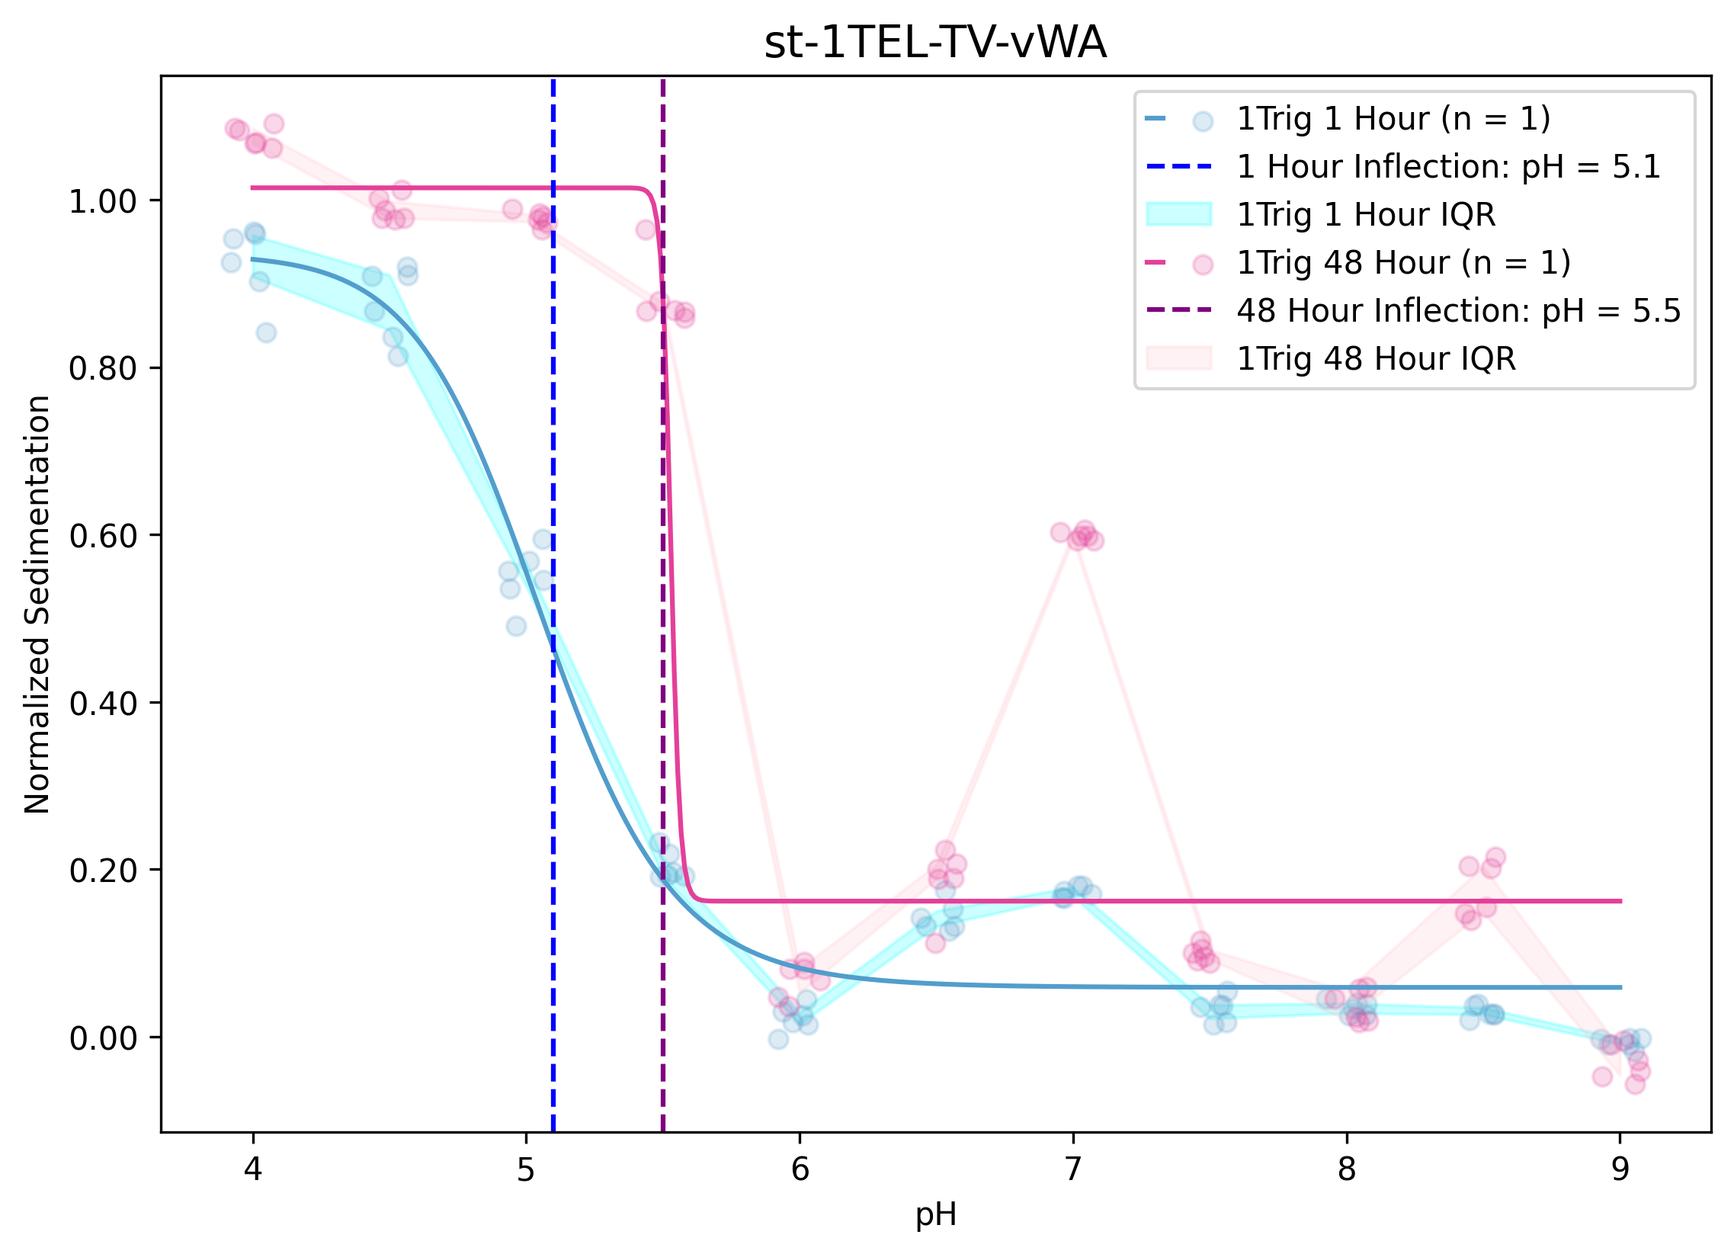
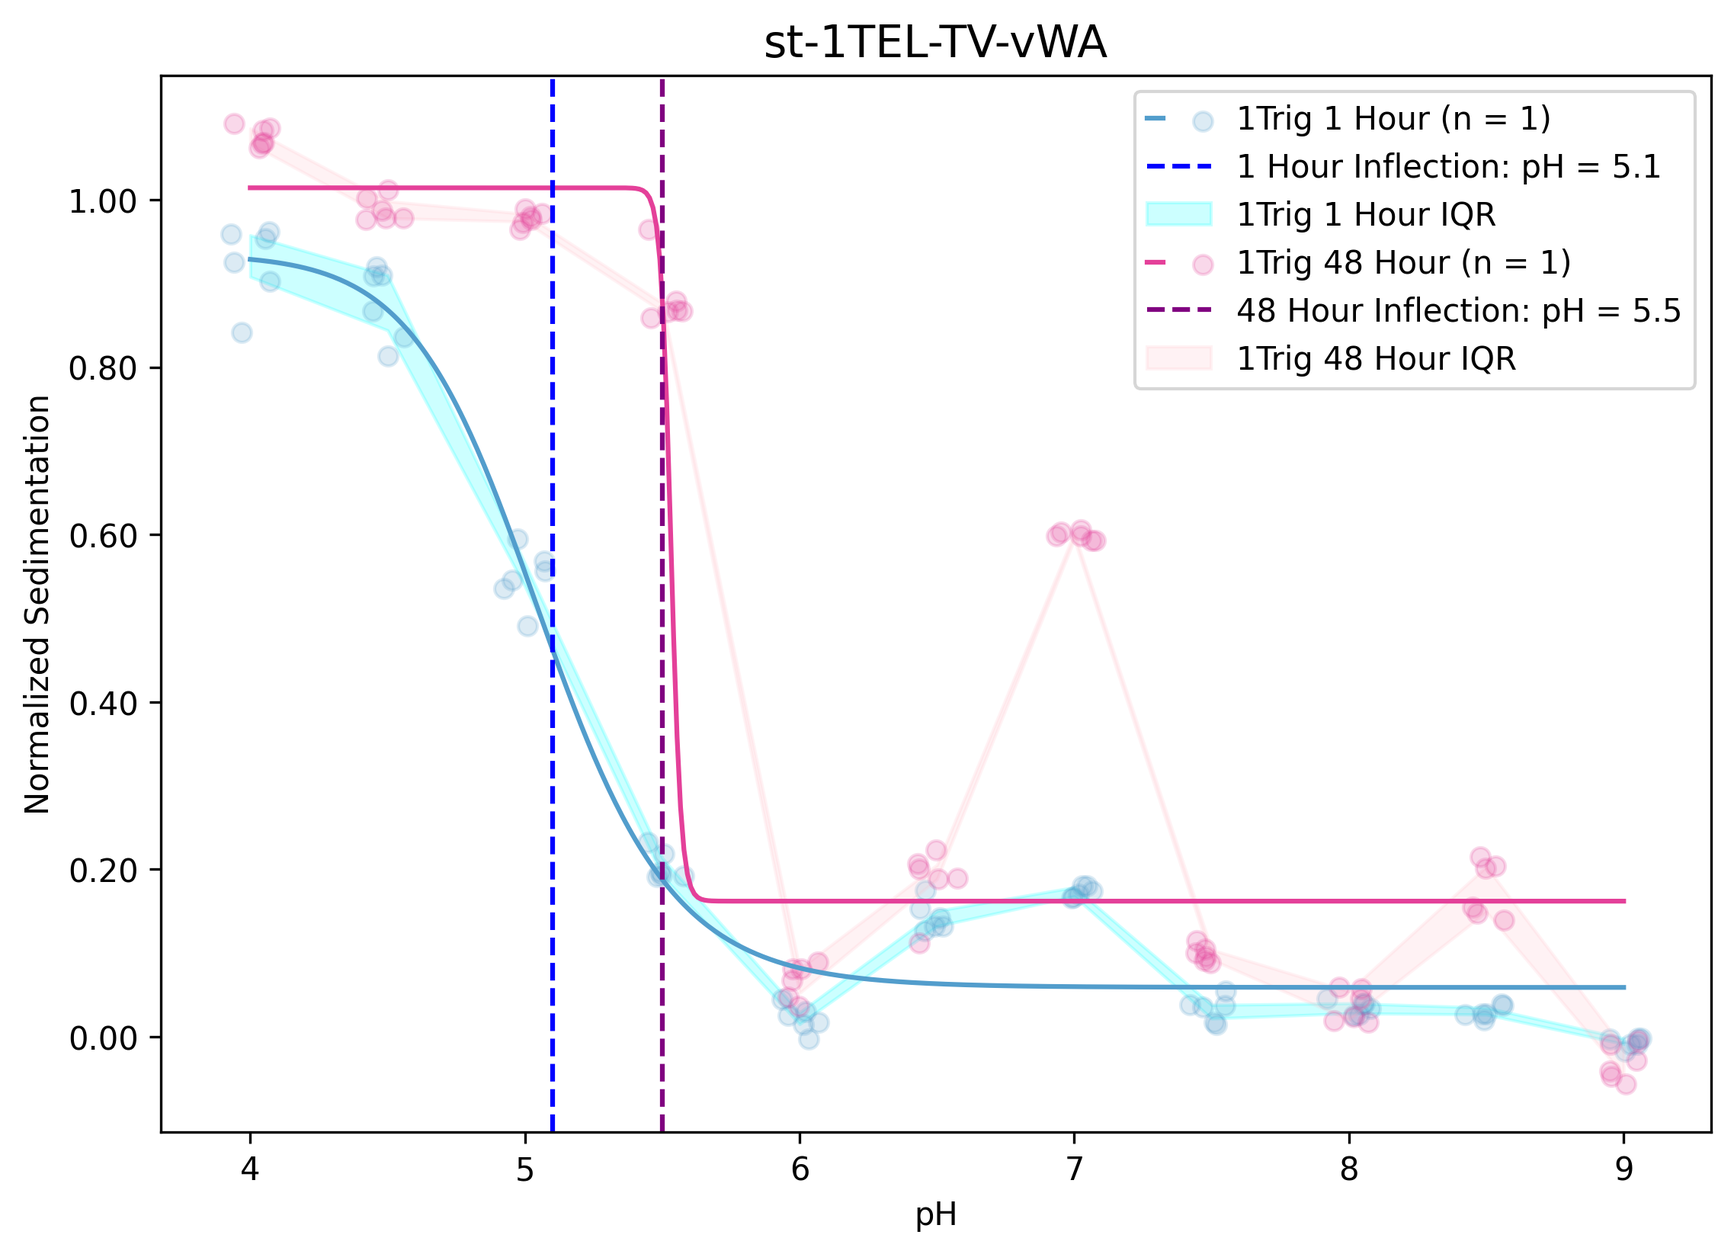
IQR branch updated to not include unrealistic inflection points or excessive tags in titles. Improved readability of A400 normalization code.

diff --git a/process.py b/process.py
@@ -161,7 +161,7 @@ def format_legend_label(construct, test_name, protein_constructs, tests, n):
         label = construct
     return f"{label} (n = {n})"
 
-# This helper function creates the legend label for the inflection point line. 
+# This helper function creates the legend label for the inflection point line.
 def format_inflection_label(prefix, inflection_value):
     return f"{prefix}: pH = {inflection_value:.1f}"
 
@@ -281,7 +281,7 @@ def statisticize(proteins_and_tests:list,plot_singly=False,plot=False,tailored=F
                         value = (theoretical_max_concentration - numeric_replicate) / theoretical_max_concentration
                     # Normalized Absorbance (turbidity plots)
                     else:
-                        value = numeric_replicate * (5/concentration)
+                        value = numeric_replicate/theoretical_max_concentration
                     data['data'].append(value)
                     data['is_starred'].append(is_starred)
                     data['is_single_omitted'].append(is_single_omitted)
@@ -348,9 +348,9 @@ def statisticize(proteins_and_tests:list,plot_singly=False,plot=False,tailored=F
             pH_single_omitted = constructs_by_pH_by_date[construct][pH]["dates_single_omitted"]
             pH_time_omitted = constructs_by_pH_by_date[construct][pH]["dates_time_omitted"]
 
-            # Each date contributes one observation, regardless of how many drops were measured.
-            date_means_for_display = []
-            date_means_for_fit = []
+            # These lists are populated with data that needs to be displayed on the plot and/or used for curve fitting (all points are displayed on the plot).
+            all_drops_for_display = []
+            all_drops_for_fit = []
 
             # This for loop goes through each pH for one construct and "attaches" the labels we use to determine if a measurement should be omitted from curve fitting
             # and if it should have an asterisk next to it in the plot signifying that it was omitted from curve fitting.
@@ -378,7 +378,8 @@ def statisticize(proteins_and_tests:list,plot_singly=False,plot=False,tailored=F
                     # Include every displayed drop in the IQR calculation.
                     all_drops_for_display.extend(np.array(display_drops, dtype=float))
                 if len(fit_drops) > 0:
-                    date_means_for_fit.append(np.mean(fit_drops))
+                    # Pool drops from all replicates into a list that will be used for curve fitting (unless you're plotting a single replicate).
+                    all_drops_for_fit.extend(np.array(fit_drops, dtype=float))
 
             # Collect all displayed drops for the IQR band and eligible drops for curve fitting.
             if len(all_drops_for_display) > 0:
@@ -387,8 +388,9 @@ def statisticize(proteins_and_tests:list,plot_singly=False,plot=False,tailored=F
                 constructs_by_pH_by_date[construct][pH]["IQR_upper_display"] = q3_display
 
             # Calculate the mean of the data we use to do the curve fitting.
-            if date_means_for_fit:
-                constructs_by_pH_by_date[construct][pH]["mean"] = np.mean(date_means_for_fit)
+            if len(all_drops_for_fit) > 0:
+                mean_fit = np.mean(all_drops_for_fit)
+                constructs_by_pH_by_date[construct][pH]["mean"] = mean_fit
     
     # This function returns the 4PL equation that we use to plot the 4PL curve onto the plot. We get the parameters from the "curve_fit" command below.
     def pH_to_absorbance_model_4pl(pH,upper_asymptote,Hill_slope,inflection_point,lower_asymptote):
@@ -417,7 +419,6 @@ def statisticize(proteins_and_tests:list,plot_singly=False,plot=False,tailored=F
         inflection_handles_and_labels = {}
         legend_groups = {"group1_main": [],"group1_inflection": [],"group1_iqr": [],"group2_main": [],"group2_inflection": [],"group2_iqr": [],"other": []}
         combined_any_omitted_points = False
-
         def change_colors():
             keys_1trig = []
             keys_2trig = []
@@ -538,13 +539,13 @@ def statisticize(proteins_and_tests:list,plot_singly=False,plot=False,tailored=F
                 # The following if and else statements compute statistics for datasets with unique behaviors and add those data to empty lists. We also add any other data
                 # to other lists.
                 if is_special_behavior_plot:
-                    subgroup_measurements_by_date = {}
+                    subgroup_measurements = {}
                     for date, measurements in pH_entry["dates"].items():
                         behavior_id = pH_entry["dates_behavior_id"].get(date, "").strip()
                         if behavior_id == "":
                             continue
-                        if behavior_id not in subgroup_measurements_by_date:
-                            subgroup_measurements_by_date[behavior_id] = {}
+                        if behavior_id not in subgroup_measurements:
+                            subgroup_measurements[behavior_id] = []
                         star_flags = pH_entry["dates_starred"][date]
                         single_omit_flags = pH_entry["dates_single_omitted"][date]
                         time_omit_flags = pH_entry["dates_time_omitted"][date]
@@ -593,19 +594,22 @@ def statisticize(proteins_and_tests:list,plot_singly=False,plot=False,tailored=F
                         group_iqr_lower = group_data['iqr_lower']
                         group_iqr_upper = group_data['iqr_upper']
                         pH_linspace = np.linspace(min(group_pH), max(group_pH), 400)
-                        initial_guesses = [max(group_means), -4, 5.5, min(group_means)]
+                        initial_guesses = [
+                            max(group_means), -4,
+                            (min(group_pH) + max(group_pH)) / 2,
+                            min(group_means),
+                        ]
                         # This is where we fit a curve to the data using scipy's curve_fit function. Scipy uses non-linear least squares to fit a function, f, to data. 
                         best_fit_parameters, _ = curve_fit(pH_to_absorbance_model_4pl,group_pH,group_means,p0=initial_guesses)
                         inflection_value = round(best_fit_parameters[2],1)
-                        if inflection_value <= 4.0:
+                        if not 4.5 <= best_fit_parameters[2] <= 8.5:
                             continue
                         curve_handle_list = plt.plot(pH_linspace,pH_to_absorbance_model_4pl(pH_linspace, *best_fit_parameters),color=behavior_colors[behavior_id],linestyle="-")
                         line_handle = curve_handle_list[0]
                         iqr_handle = plt.fill_between(group_pH,group_iqr_lower,group_iqr_upper,color=behavior_colors[behavior_id],alpha=0.12)
                         handles_and_labels[iqr_handle] = f"{behavior_label_from_behavior_id(behavior_id)} IQR"
                         legend_groups["group1_iqr"].append(iqr_handle)
-                        inflection_x = min(max(inflection_value, 4.5), 8.5)
-                        inflection_handle = plt.axvline(inflection_x,color=behavior_colors[behavior_id],linestyle=":")
+                        inflection_handle = plt.axvline(inflection_value,color=behavior_colors[behavior_id],linestyle=":")
                         inflection_handles_and_labels[inflection_handle] = (
                             f"{behavior_label_from_behavior_id(behavior_id)} Inflection: "
                             f"{format_inflection_label('', inflection_value).replace(': ', '').strip()}")
@@ -613,11 +617,18 @@ def statisticize(proteins_and_tests:list,plot_singly=False,plot=False,tailored=F
                         special_curve_handles[behavior_id] = line_handle
                 else:
                     pH_linspace = np.linspace(min(pH_values_fit), max(pH_values_fit), 400)
-                    initial_guesses = [max(means_fit), -4, 5.5, min(means_fit)]
+                    initial_guesses = [
+                        max(means_fit), -4,
+                        (min(pH_values_fit) + max(pH_values_fit)) / 2,
+                        min(means_fit),
+                    ]
                     best_fit_parameters, _ = curve_fit(pH_to_absorbance_model_4pl, pH_values_fit, means_fit, p0=initial_guesses)
                     inflection_value = round(best_fit_parameters[2],1)
-                    if inflection_value <= 4.0:
-                        raise ValueError(f"Calculated inflection point ({inflection_value:.1f}) is <= 4.0")
+                    if not 4.5 <= best_fit_parameters[2] <= 8.5:
+                        raise ValueError(
+                            f"Calculated inflection point ({best_fit_parameters[2]:.2f}) "
+                            "is outside the realistic pH range (4.5–8.5)"
+                        )
                     if "Knockout" in construct:
                         if test_name in ["A280_48hr", "A280_72hr"]:
                             inflection_points_knockout_48hr.append(inflection_value)
@@ -734,7 +745,6 @@ def statisticize(proteins_and_tests:list,plot_singly=False,plot=False,tailored=F
                     legend_groups[f"{group_prefix}_main"].append(pair_handle)
 
                 if plot_singly:
-                    inflection_x = min(max(inflection_value, 4.5), 8.5)
                     if "Gravity" in construct and test_name in ["A280_48hr", "A280_72hr"]:
                         inflection_color = 'brown'
                     elif "Gravity" in construct:
@@ -861,7 +871,7 @@ def statisticize(proteins_and_tests:list,plot_singly=False,plot=False,tailored=F
                 ax.yaxis.set_major_formatter(mticker.FormatStrFormatter('%.2f'))
                 plt.legend(handles,labels,handler_map={tuple: HandlerTuple(ndivide=2, pad=1)},loc="upper right")
                 safe_date_text = date_text.replace("/", "-").replace(", ", "_").replace(" ", "_")
-                plt.savefig(f"{BASE_DIR}/figures_without_legends/{construct.replace('/', '_')}_{test_name}_{safe_date_text}_single.png",dpi=300,bbox_inches="tight")
+                plt.savefig(f"{BASE_DIR}/figures_with_IQRs/{construct.replace('/', '_')}_{test_name}_{safe_date_text}_single.png",dpi=300,bbox_inches="tight")
                 plt.show()
                 plt.close()
                 handles_and_labels = {}
@@ -878,53 +888,44 @@ def statisticize(proteins_and_tests:list,plot_singly=False,plot=False,tailored=F
                     for inflection_points, color, label in inflection_groups:
                         if inflection_points:
                             mean_inflection = np.mean(inflection_points)
-                            inflection_handle = plt.axvline(
-                                min(max(mean_inflection, 4.5), 8.5), color=color, linestyle="--")
+                            inflection_handle = plt.axvline(mean_inflection, color=color, linestyle="--")
                             inflection_handles_and_labels[inflection_handle] = format_inflection_label(
                                 label, mean_inflection)
                             legend_groups["group1_inflection" if "1 Hour" in label else "group2_inflection"].append(inflection_handle)
                 elif "2Trig" in protein_constructs[0]:
                     if len(inflection_points_2trig_1hr) >= 1:
                         mean_1hr = np.mean(inflection_points_2trig_1hr)
-                        inflection_x_1hr = min(max(mean_1hr, 4.5), 8.5)
-                        inflection_1hr = plt.axvline(inflection_x_1hr, color="darkorange", linestyle="--")
+                        inflection_1hr = plt.axvline(mean_1hr, color="darkorange", linestyle="--")
                         inflection_handles_and_labels[inflection_1hr] = format_inflection_label("1 Hour Inflection",mean_1hr)
                         legend_groups["group1_inflection"].append(inflection_1hr)
-
                     if len(inflection_points_2trig_48hr) >= 1:
                         mean_48hr = np.mean(inflection_points_2trig_48hr)
-                        inflection_x_48hr = min(max(mean_48hr, 4.5), 8.5)
-                        inflection_48hr = plt.axvline(inflection_x_48hr, color="indigo", linestyle="--")
+                        inflection_48hr = plt.axvline(mean_48hr, color="indigo", linestyle="--")
                         inflection_handles_and_labels[inflection_48hr] = format_inflection_label(f"{time_label_from_test(test_name)} Inflection",mean_48hr)
                         legend_groups["group2_inflection"].append(inflection_48hr)
-
                 elif "Gravity" in protein_constructs[0]:
                     if len(inflection_points_gravity_1hr) >= 1:
                         mean_1hr = np.mean(inflection_points_gravity_1hr)
-                        inflection_x_1hr = min(max(mean_1hr, 4.5), 8.5)
-                        inflection_1hr = plt.axvline(inflection_x_1hr, color="green", linestyle="--")
+                        inflection_1hr = plt.axvline(mean_1hr, color="green", linestyle="--")
                         inflection_handles_and_labels[inflection_1hr] = format_inflection_label("1 Hour Inflection", mean_1hr)
                         legend_groups["group1_inflection"].append(inflection_1hr)
 
                     if len(inflection_points_gravity_48hr) >= 1:
                         mean_48hr = np.mean(inflection_points_gravity_48hr)
-                        inflection_x_48hr = min(max(mean_48hr, 4.5), 8.5)
-                        inflection_48hr = plt.axvline(inflection_x_48hr, color="brown", linestyle="--")
+                        inflection_48hr = plt.axvline(mean_48hr, color="brown", linestyle="--")
                         inflection_handles_and_labels[inflection_48hr] = format_inflection_label(f"{time_label_from_test(test_name)} Inflection", mean_48hr)
                         legend_groups["group2_inflection"].append(inflection_48hr)   
                 
                 else:
                     if len(inflection_points_1trig_1hr) >= 1:
                         mean_1hr = np.mean(inflection_points_1trig_1hr)
-                        inflection_x_1hr = min(max(mean_1hr, 4.5), 8.5)
-                        inflection_1hr = plt.axvline(inflection_x_1hr, color="blue", linestyle="--")
+                        inflection_1hr = plt.axvline(mean_1hr, color="blue", linestyle="--")
                         inflection_handles_and_labels[inflection_1hr] = format_inflection_label("1 Hour Inflection",mean_1hr)
                         legend_groups["group1_inflection"].append(inflection_1hr)
 
                     if len(inflection_points_1trig_48hr) >= 1:
                         mean_48hr = np.mean(inflection_points_1trig_48hr)
-                        inflection_x_48hr = min(max(mean_48hr, 4.5), 8.5)
-                        inflection_48hr = plt.axvline(inflection_x_48hr, color="purple", linestyle="--")
+                        inflection_48hr = plt.axvline(mean_48hr, color="purple", linestyle="--")
                         inflection_handles_and_labels[inflection_48hr] = format_inflection_label(f"{time_label_from_test(test_name)} Inflection",mean_48hr)
                         legend_groups["group2_inflection"].append(inflection_48hr)
             elif is_gravity_comparison:
@@ -957,15 +958,13 @@ def statisticize(proteins_and_tests:list,plot_singly=False,plot=False,tailored=F
 
                 if len(nongravity_points) >= 1:
                     mean_ng = np.mean(nongravity_points)
-                    inflection_x_ng = min(max(mean_ng, 4.5), 8.5)
-                    inflection_ng = plt.axvline(inflection_x_ng, color=nongravity_color, linestyle="--")
+                    inflection_ng = plt.axvline(mean_ng, color=nongravity_color, linestyle="--")
                     inflection_handles_and_labels[inflection_ng] = format_inflection_label(nongravity_label, mean_ng)
                     legend_groups["group1_inflection"].append(inflection_ng)
 
                 if len(gravity_points) >= 1:
                     mean_g = np.mean(gravity_points)
-                    inflection_x_g = min(max(mean_g, 4.5), 8.5)
-                    inflection_g = plt.axvline(inflection_x_g, color=gravity_color, linestyle="--")
+                    inflection_g = plt.axvline(mean_g, color=gravity_color, linestyle="--")
                     inflection_handles_and_labels[inflection_g] = format_inflection_label(gravity_label, mean_g)
                     legend_groups["group2_inflection"].append(inflection_g)
             else:
@@ -982,25 +981,14 @@ def statisticize(proteins_and_tests:list,plot_singly=False,plot=False,tailored=F
                     color_2trig = "red"
                 if len(inflection_points_1trig) >= 1:
                     mean_1trig = np.mean(inflection_points_1trig)
-                    inflection_x_1 = min(max(mean_1trig, 4.5), 8.5)
-                    inflection_1 = plt.axvline(inflection_x_1, color=color_1trig, linestyle="--")
+                    inflection_1 = plt.axvline(mean_1trig, color=color_1trig, linestyle="--")
                     inflection_handles_and_labels[inflection_1] = format_inflection_label("1Trig Inflection",mean_1trig)
                     legend_groups["group1_inflection"].append(inflection_1)
                 if len(inflection_points_2trig) >= 1:
                     mean_2trig = np.mean(inflection_points_2trig)
-                    inflection_x_2 = min(max(mean_2trig, 4.5), 8.5)
-                    inflection_2 = plt.axvline(inflection_x_2, color=color_2trig, linestyle="--")
+                    inflection_2 = plt.axvline(mean_2trig, color=color_2trig, linestyle="--")
                     inflection_handles_and_labels[inflection_2] = format_inflection_label("2Trig Inflection",mean_2trig)
                     legend_groups["group2_inflection"].append(inflection_2)
-                else:
-                    is_darpin_comparison = (
-                            len(protein_constructs) == 2
-                            and any(c == "10xHis-1TEL-SR-DARPin" for c in protein_constructs)
-                            and any(c == "2Trig-10xHis-1TEL-SR-DARPin" for c in protein_constructs))
-                    if is_darpin_comparison:
-                        inflection_2 = plt.axvline(4.50, color=color_2trig, linestyle="--")
-                        inflection_handles_and_labels[inflection_2] = "2Trig Inflection: pH < 4.5"
-                        legend_groups["group2_inflection"].append(inflection_2)
                 knockout_inflection_points = (
                     inflection_points_knockout_48hr
                     if any(test in tests for test in ["A280_48hr", "A280_72hr"])
@@ -1008,8 +996,7 @@ def statisticize(proteins_and_tests:list,plot_singly=False,plot=False,tailored=F
                 )
                 if knockout_inflection_points:
                     mean_knockout = np.mean(knockout_inflection_points)
-                    knockout_inflection = plt.axvline(
-                        min(max(mean_knockout, 4.5), 8.5), color="forestgreen", linestyle="--")
+                    knockout_inflection = plt.axvline(mean_knockout, color="forestgreen", linestyle="--")
                     inflection_label = "Knockout Inflection"
                     if test_name in ["A280_1hr", "A280_48hr", "A280_72hr"]:
                         inflection_label = f"Knockout {time_label_from_test(test_name)} Inflection"
@@ -1024,14 +1011,14 @@ def statisticize(proteins_and_tests:list,plot_singly=False,plot=False,tailored=F
                 assay = 'Sedimentation'
             if len(protein_constructs) == 1:
                 protein_title = format_chart_title(protein_constructs[0],len(protein_constructs))
-                plt.title(f"{protein_title}, {assay}", fontsize = 14)
+                plt.title(f"{protein_title}", fontsize = 14)
                 plt.ylabel(y_axis)
                 plt.xlabel("pH")
             else:
                 if (len(protein_constructs) == 2 or is_alone_knockout_comparison) and len(tests) == 1:
                     # Use the first construct as the base protein title
                     protein_title = format_chart_title(protein_constructs[0],len(protein_constructs))
-                    plt.title(f"{protein_title}, {assay}", fontsize = 14)
+                    plt.title(f"{protein_title}", fontsize = 14)
                     plt.ylabel(y_axis)
                     plt.xlabel("pH")
             # add asterisk legend entry LAST so it appears on bottom row
@@ -1055,7 +1042,7 @@ def statisticize(proteins_and_tests:list,plot_singly=False,plot=False,tailored=F
             plt.legend(handles, labels,handler_map={tuple: HandlerTuple(ndivide=2, pad=1)},loc="upper right")
             safe_constructs = "_vs_".join([p.replace("/", "_") for p in protein_constructs])
             safe_tests = "_vs_".join(tests)
-            plt.savefig(f"{BASE_DIR}/figures_without_legends/{safe_constructs}__{safe_tests}.png", dpi=300, bbox_inches="tight")
+            plt.savefig(f"{BASE_DIR}/figures_with_IQRs/{safe_constructs}__{safe_tests}.png", dpi=300, bbox_inches="tight")
             plt.show()
             plt.close()
 
